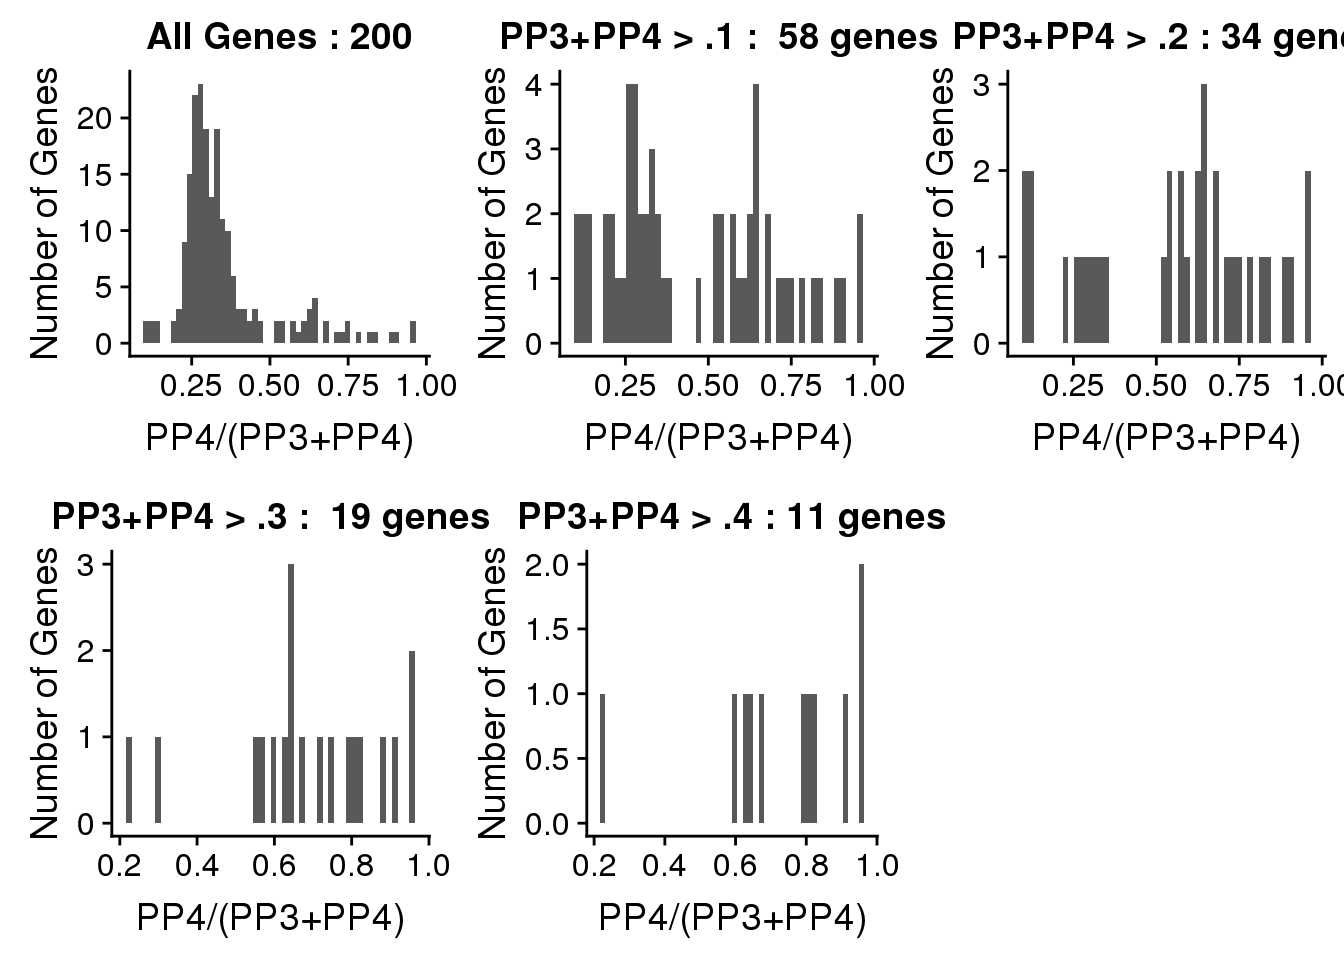
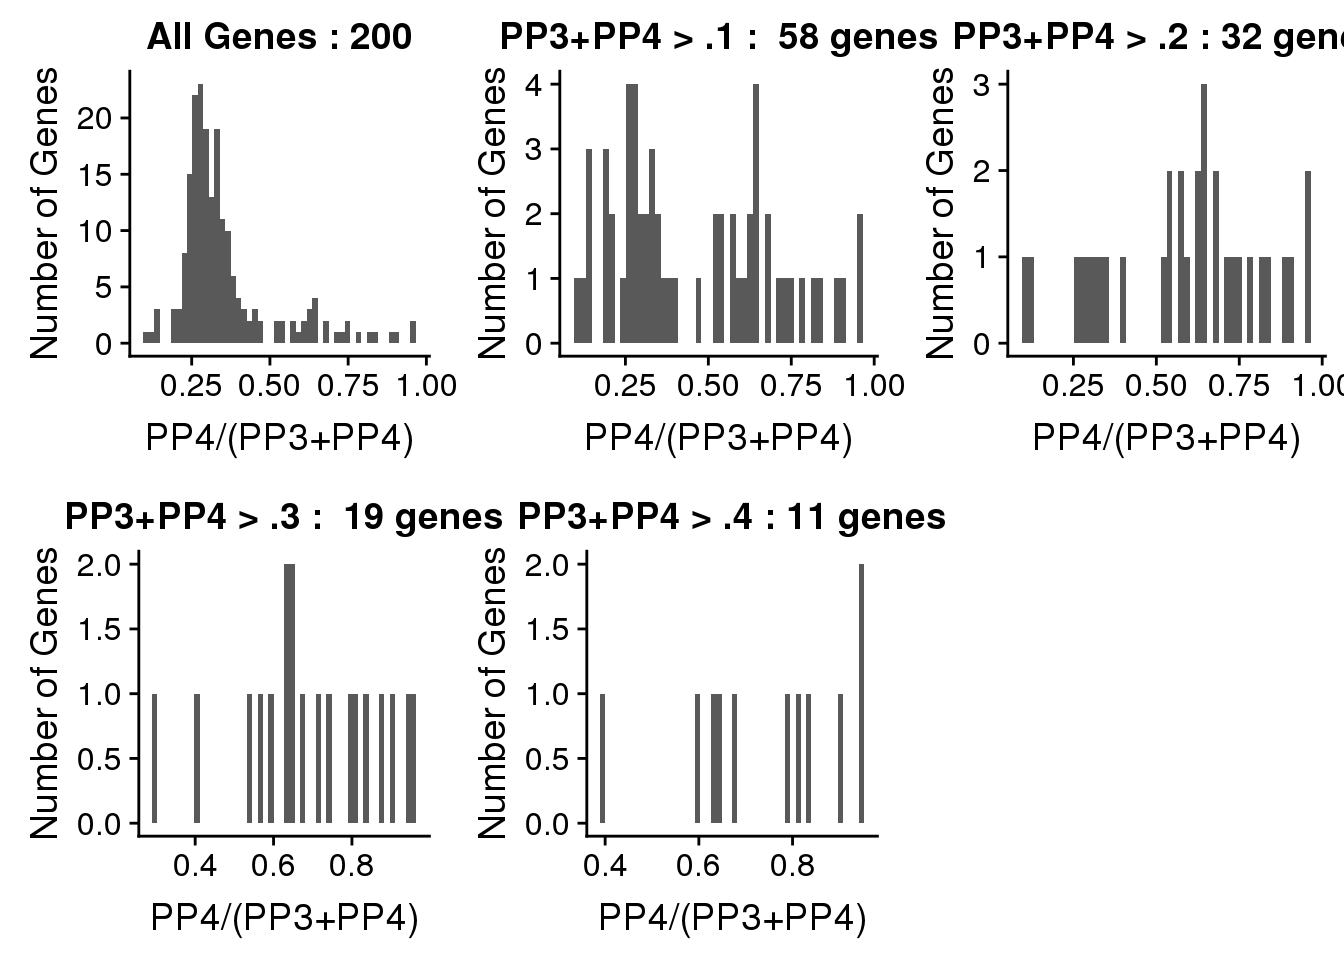
Build site.

diff --git a/docs/coloc.html b/docs/coloc.html
@@ -343,7 +343,7 @@ div.section {
 <div class="tab-content">
 <div id="summary" class="tab-pane fade in active">
 <p>
-<strong>Last updated:</strong> 2020-02-20
+<strong>Last updated:</strong> 2020-02-21
 </p>
 <p>
 <strong>Checks:</strong> <span class="glyphicon glyphicon-ok text-success" aria-hidden="true"></span> 7 <span class="glyphicon glyphicon-exclamation-sign text-danger" aria-hidden="true"></span> 0
@@ -434,10 +434,10 @@ This reproducible <a href="http://rmarkdown.rstudio.com">R Markdown</a> analysis
 <div class="panel panel-default">
 <div class="panel-heading">
 <p class="panel-title">
-<a data-toggle="collapse" data-parent="#workflowr-checks" href="#strongRepositoryversionstrongahrefhttpsgithubcombrimittlemanapaQTLtree662a604fd34b67d3f9fc908392a0e3a3905a99b7targetblank662a604a"> <span class="glyphicon glyphicon-ok text-success" aria-hidden="true"></span> <strong>Repository version:</strong> <a href="https://github.com/brimittleman/apaQTL/tree/662a604fd34b67d3f9fc908392a0e3a3905a99b7" target="_blank">662a604</a> </a>
+<a data-toggle="collapse" data-parent="#workflowr-checks" href="#strongRepositoryversionstrongahrefhttpsgithubcombrimittlemanapaQTLtree67882340674c86d38fb1b1d08bf4134a17daa1cetargetblank6788234a"> <span class="glyphicon glyphicon-ok text-success" aria-hidden="true"></span> <strong>Repository version:</strong> <a href="https://github.com/brimittleman/apaQTL/tree/67882340674c86d38fb1b1d08bf4134a17daa1ce" target="_blank">6788234</a> </a>
 </p>
 </div>
[2 lines of base64/hex data omitted]
 <div class="panel-body">
 <p>
 Great! You are using Git for version control. Tracking code development and connecting the code version to the results is critical for reproducibility. The version displayed above was the version of the Git repository at the time these results were generated. <br><br> Note that you need to be careful to ensure that all relevant files for the analysis have been committed to Git prior to generating the results (you can use <code>wflow_publish</code> or <code>wflow_git_commit</code>). workflowr only checks the R Markdown file, but you know if there are other scripts or data files that it depends on. Below is the status of the Git repository when the results were generated:
@@ -1278,6 +1278,40 @@ Message
 Rmd
 </td>
 <td>
+<a href="https://github.com/brimittleman/apaQTL/blob/67882340674c86d38fb1b1d08bf4134a17daa1ce/analysis/coloc.Rmd" target="_blank">6788234</a>
+</td>
+<td>
+brimittleman
+</td>
+<td>
+2020-02-21
+</td>
+<td>
+add PM res
+</td>
+</tr>
+<tr>
+<td>
+html
+</td>
+<td>
+<a href="https://rawcdn.githack.com/brimittleman/apaQTL/1ca62a2b38e5c33c4650d6592c2135cabbc410c8/docs/coloc.html" target="_blank">1ca62a2</a>
+</td>
+<td>
+brimittleman
+</td>
+<td>
+2020-02-20
+</td>
+<td>
+Build site.
+</td>
+</tr>
+<tr>
+<td>
+Rmd
+</td>
+<td>
 <a href="https://github.com/brimittleman/apaQTL/blob/662a604fd34b67d3f9fc908392a0e3a3905a99b7/analysis/coloc.Rmd" target="_blank">662a604</a>
 </td>
 <td>
@@ -1381,12 +1415,12 @@ Attaching package: &#39;cowplot&#39;</code></pre>
     ggsave</code></pre>
 <pre class="r"><code>library(data.table)
 library(tidyverse)</code></pre>
-<pre><code>── Attaching packages ────────────────────────────────────────────────────────────────── tidyverse 1.2.1 ──</code></pre>
+<pre><code>── Attaching packages ─────────────────────────────────────────────────────────────────────────── tidyverse 1.2.1 ──</code></pre>
 <pre><code>✔ tibble  2.1.1       ✔ purrr   0.3.2  
 ✔ tidyr   0.8.3       ✔ dplyr   0.8.0.1
 ✔ readr   1.3.1       ✔ stringr 1.3.1  
 ✔ tibble  2.1.1       ✔ forcats 0.3.0  </code></pre>
-<pre><code>── Conflicts ───────────────────────────────────────────────────────────────────── tidyverse_conflicts() ──
+<pre><code>── Conflicts ────────────────────────────────────────────────────────────────────────────── tidyverse_conflicts() ──
 ✖ dplyr::between()   masks data.table::between()
 ✖ tidyr::expand()    masks Matrix::expand()
 ✖ dplyr::filter()    masks stats::filter()
@@ -1485,6 +1519,43 @@ three=ggplot(ColocRES_filt3,aes(x=Prop)) +geom_histogram(bins=50)+ labs(y=&quot;
 four=ggplot(ColocRES_filt4,aes(x=Prop)) +geom_histogram(bins=50)+ labs(y=&quot;Number of Genes&quot;, x=&quot;PP4/(PP3+PP4)&quot;, title=paste(&quot;PP3+PP4 &gt; .4 :&quot;, nrow(ColocRES_filt4), &#39;genes&#39;, sep=&quot; &quot;))</code></pre>
 <pre class="r"><code>plot_grid(all, one, two, three, four)</code></pre>
 <p><img src="figure/coloc.Rmd/unnamed-chunk-19-1.png" width="672" style="display: block; margin: auto;" /></p>
+<p>
+<button type="button" class="btn btn-default btn-xs btn-workflowr btn-workflowr-fig" data-toggle="collapse" data-target="#fig-unnamed-chunk-19-1">
+Past versions of unnamed-chunk-19-1.png
+</button>
+</p>
+<div id="fig-unnamed-chunk-19-1" class="collapse">
+<div class="table-responsive">
+<table class="table table-condensed table-hover">
+<thead>
+<tr>
+<th>
+Version
+</th>
+<th>
+Author
+</th>
+<th>
+Date
+</th>
+</tr>
+</thead>
+<tbody>
+<tr>
+<td>
+<a href="https://github.com/brimittleman/apaQTL/blob/1ca62a2b38e5c33c4650d6592c2135cabbc410c8/docs/figure/coloc.Rmd/unnamed-chunk-19-1.png" target="_blank">1ca62a2</a>
+</td>
+<td>
+brimittleman
+</td>
+<td>
+2020-02-20
+</td>
+</tr>
+</tbody>
+</table>
+</div>
+</div>
 <p>Try with a higher powered eQTL set.</p>
 <pre class="bash"><code>mkdir ../data/GeuvadiseQTL/
 cp  /project2/yangili1/zpmu/geuvadis/results/eqtl_new/YRI/nom_YRI_9phenoPC_*.txt.gz ../data/GeuvadiseQTL/
@@ -1500,7 +1571,56 @@ cat ../data/GeuvadiseQTL/*ose.r2.nodup.filtered.recode.YRI.frq &gt; ../data/Geuv
 
 mkdir ../data/coloc_PM
 
-sbatch ColocApAeQTL_PM.sh</code></pre>
+sbatch ColocApAeQTL_PM.sh
+
+cat ../data/coloc_PM/*colocRes.txt &gt; ../data/coloc_PM/AllAssoccolocResPM.txt</code></pre>
+<pre class="r"><code>ColocRESPM=read.table(&quot;../data/coloc_PM/AllAssoccolocResPM.txt&quot;, col.names = c(&quot;nsnp&quot;,&#39;Neither&#39;, &#39;apaQTL&#39;, &#39;eQTL&#39;, &#39;DifferentSnps&#39;, &#39;Coloc&#39;,&#39;gene&#39;),stringsAsFactors = F) %&gt;% select(-nsnp) %&gt;% mutate(three_four=DifferentSnps+Coloc, Prop=Coloc/three_four)
+
+ColocRESPM_filt=ColocRESPM %&gt;% filter(three_four&gt;.2)
+ColocRESPM_filt1=ColocRESPM %&gt;% filter(three_four&gt;.1)
+ColocRESPM_filt3=ColocRESPM %&gt;% filter(three_four&gt;.3)
+ColocRESPM_filt4=ColocRESPM %&gt;% filter(three_four&gt;.4)</code></pre>
+<pre class="r"><code>allPM=ggplot(ColocRESPM,aes(x=Prop)) +geom_histogram(bins=50) + labs(y=&quot;Number of Genes&quot;, x=&quot;PP4/(PP3+PP4)&quot;, title=paste(&quot;All Genes &quot;, nrow(ColocRESPM), sep=&quot;: &quot;))
+
+onePM=ggplot(ColocRESPM_filt1,aes(x=Prop)) +geom_histogram(bins=50)+ labs(y=&quot;Number of Genes&quot;, x=&quot;PP4/(PP3+PP4)&quot;, title=paste(&quot;PP3+PP4 &gt; .1 : &quot;, nrow(ColocRESPM_filt1), &quot;genes&quot; , sep=&quot; &quot;))
+
+
+twoPM=ggplot(ColocRESPM_filt,aes(x=Prop)) +geom_histogram(bins=50)+ labs(y=&quot;Number of Genes&quot;, x=&quot;PP4/(PP3+PP4)&quot;, title=paste(&quot;PP3+PP4 &gt; .2 :&quot;, nrow(ColocRESPM_filt), &quot;genes&quot;, sep=&quot; &quot;))
+
+
+threePM=ggplot(ColocRESPM_filt3,aes(x=Prop)) +geom_histogram(bins=50)+ labs(y=&quot;Number of Genes&quot;, x=&quot;PP4/(PP3+PP4)&quot;, title=paste(&quot;PP3+PP4 &gt; .3 : &quot;, nrow(ColocRESPM_filt3), &quot;genes&quot;, sep=&quot; &quot;))
+
+fourPM=ggplot(ColocRESPM_filt4,aes(x=Prop)) +geom_histogram(bins=50)+ labs(y=&quot;Number of Genes&quot;, x=&quot;PP4/(PP3+PP4)&quot;, title=paste(&quot;PP3+PP4 &gt; .4 :&quot;, nrow(ColocRESPM_filt4), &#39;genes&#39;, sep=&quot; &quot;))</code></pre>
+<pre class="r"><code>plot_grid(allPM, onePM, twoPM, threePM, fourPM)</code></pre>
+<p><img src="figure/coloc.Rmd/unnamed-chunk-24-1.png" width="672" style="display: block; margin: auto;" /></p>
+<pre class="r"><code>ggplot(ColocRESPM_filt,aes(x=Prop)) +geom_histogram(bins=50)+ labs(y=&quot;Number of Genes&quot;, x=&quot;PP4/(PP3+PP4)&quot;, title=paste(&quot;Colocalization results for apaQTLs and eQTLs \nPP3+PP4 &gt; .2 :&quot;, nrow(ColocRESPM_filt), &quot;genes&quot;, sep=&quot; &quot;))</code></pre>
+<p><img src="figure/coloc.Rmd/unnamed-chunk-25-1.png" width="672" style="display: block; margin: auto;" /> Which genes are these:</p>
+<pre class="r"><code>ColocRESPM_filt5= ColocRESPM_filt %&gt;% filter(Prop&gt;.5) 
+ColocRESPM_filt5$gene</code></pre>
+<pre><code> [1] &quot;AP3M2&quot;     &quot;BLOC1S2&quot;   &quot;CENPQ&quot;     &quot;CHURC1&quot;    &quot;COX11&quot;    
+ [6] &quot;ERAP2&quot;     &quot;GSTO1&quot;     &quot;HIBCH&quot;     &quot;HSD17B12&quot;  &quot;KDELR2&quot;   
+[11] &quot;LINC00476&quot; &quot;MB21D2&quot;    &quot;MRPL43&quot;    &quot;MTG2&quot;      &quot;PPP2R3C&quot;  
+[16] &quot;RAB31&quot;     &quot;SLFN5&quot;     &quot;SMDT1&quot;     &quot;TBC1D4&quot;    &quot;THEM4&quot;    
+[21] &quot;TMEM140&quot;   &quot;TMEM80&quot;    &quot;VRK3&quot;      &quot;ZC2HC1A&quot;   &quot;ZNRD1&quot;    
+[26] &quot;ZSWIM7&quot;   </code></pre>
+<pre class="r"><code>length(ColocRESPM_filt5$gene)</code></pre>
+<pre><code>[1] 26</code></pre>
+<p>Are these unexplained:</p>
+<pre class="r"><code>UexPe=read.table(&quot;../data/Li_eQTLs/UnexplainedEgenes.txt&quot;,col.names = &quot;GeneName&quot;) %&gt;% filter(GeneName %in% ColocRESPM_filt5$gene)
+UexPe</code></pre>
+<pre><code>    GeneName
+1      THEM4
+2    BLOC1S2
+3     MRPL43
+4     TMEM80
+5     ZSWIM7
+6      SMDT1
+7      ZNRD1
+8      CENPQ
+9     KDELR2
+10   TMEM140
+11   ZC2HC1A
+12 LINC00476</code></pre>
 <br>
 <p>
 <button type="button" class="btn btn-default btn-workflowr btn-workflowr-sessioninfo" data-toggle="collapse" data-target="#workflowr-sessioninfo" style="display: block;">
